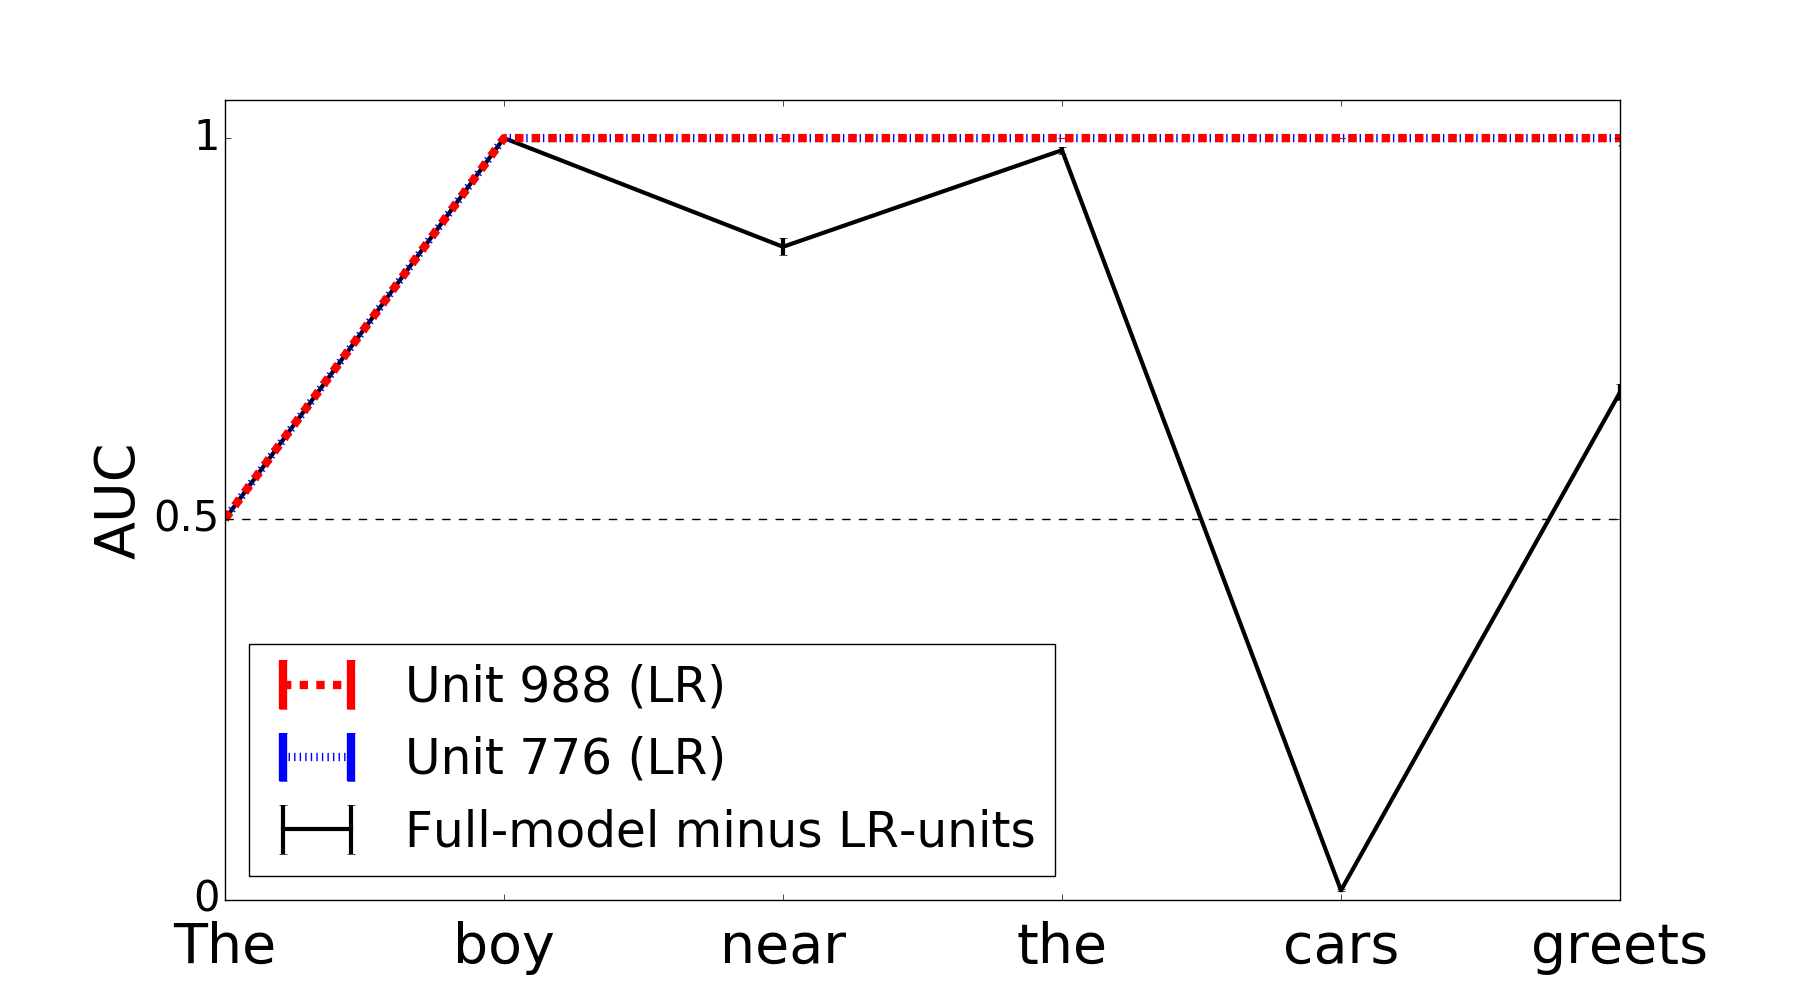
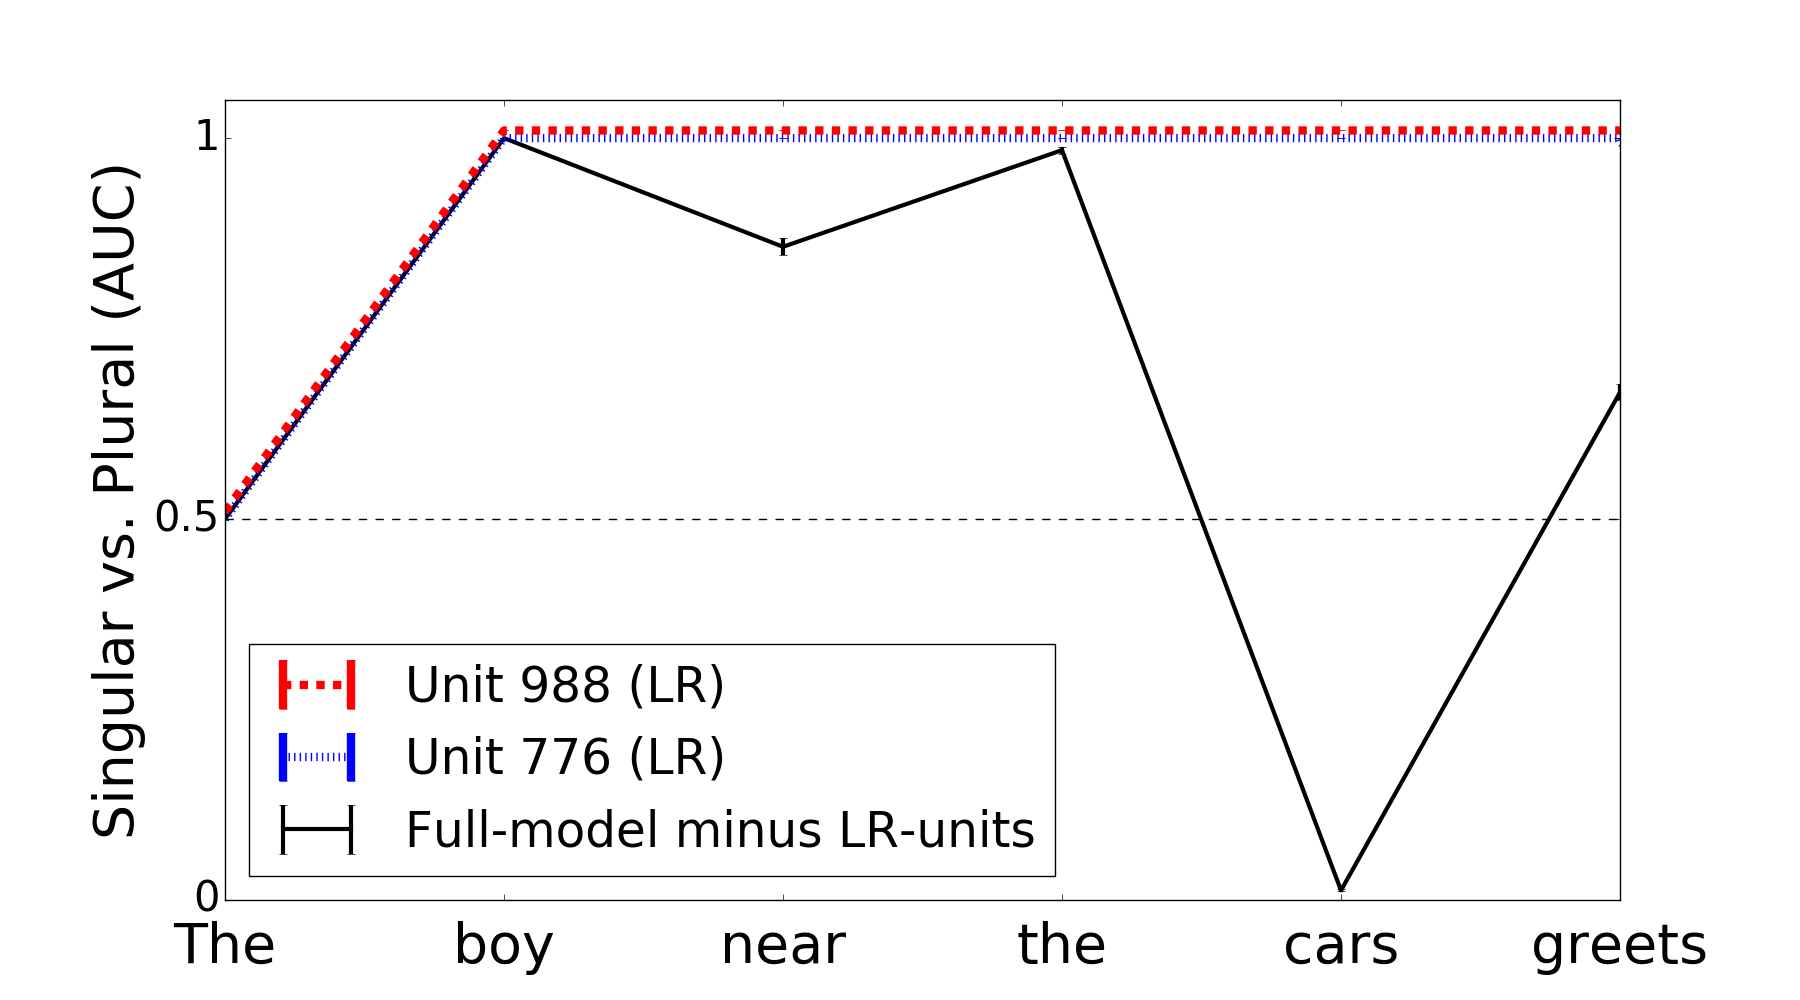
minor edits

diff --git a/writeup/NAACL2019/supplementary_material.tex b/writeup/NAACL2019/supplementary_material.tex
@@ -29,7 +29,7 @@ The results of the paper can be reproduced using the scripts in our github repos
 
 \section*{Tree Depth Data}
 
-For our regression experiments we used a large corpus with sentences with unambiguous but varied syntactic structures, generated by a script that follows a predefined context free grammar.
+For our regression experiments we used a large corpus with sentences with unambiguous but varied syntactic structures, generated by a script that follows a predefined context-free grammar.
 The output of this script is a four column file containing:\begin{enumerate}
     \item The generated sentence.
     \item The syntactic parse tree of the sentence, according to the grammar that was used to generate it.
@@ -43,9 +43,9 @@ We first processed a large corpus of such sentence with lengths between 2 and 25
 Aside from the sentence and the corresponding activations, this dictionary contains also the position, log probability, syntactic depth, frequency count and open nodes count for each word in this sentence, and the length and structure of the sentence.
 
 Since syntactic depth is naturally correlated with word position, we filtered the processed words such that all position-depth combinations within positions 7-12 and depths 3-8 are uniformly represented in our final dataset.
-Note that the datapoints for our regression analysis are thus (word activation, depth) pairs. As a results from our sampling strategy, only one or a few pairs for each sentence in the original dataset are included.
-Our final dataset contains 18.605 positions from 23.450 sentences.
+Note that the datapoints for our regression analysis are thus (word activation, tree depth) pairs. As a results from our sampling strategy, only one or a few pairs for each sentence in the original dataset are included.
+Our final dataset contains 4,033 positions from 1,303 sentences.
 
-We provide the script that generates these sentences as well as the files containing the exact sentences and filtered data we used for our study.
+We provide the script that generates these sentences, as well as the files containing the sentences and filtered data based on the above decorrelation method used in our study.
 
 \end{document}

diff --git a/Code/LSTM/model-analysis/SR_vs_LR_units.py b/Code/LSTM/model-analysis/SR_vs_LR_units.py
@@ -110,7 +110,9 @@ for u, unit in enumerate([775, 987]):
         scores = get_gat_scores(data, omit_units, seed)
         scores_LR_unit.append(scores[1, :]) # Scores only when trained on subject (first noun)
     scores_LR_unit = np.vstack(scores_LR_unit)
-    ax1.errorbar(x=range(scores_LR_unit.shape[1]), y=np.mean(scores_LR_unit, axis=0), yerr=np.std(scores_LR_unit, axis=0), linewidth=6, label=title, color=colors[u], ls=line_styles[u])
+    jitter = 0
+    if u == 1: jitter = 0.01
+    ax1.errorbar(x=range(scores_LR_unit.shape[1]), y=np.mean(scores_LR_unit, axis=0)+jitter, yerr=np.std(scores_LR_unit, axis=0), linewidth=6, label=title, color=colors[u], ls=line_styles[u])
     scores_LR_units.append(scores_LR_unit)
 
 #### Plot 2nd layer
@@ -155,7 +157,7 @@ ax1.set_xlim((0, len(sentence)-1))
 ax1.axhline(0.5, color='k', ls = '--')
 ax1.set_xticklabels(sentence, fontsize=40)
 ax1.tick_params(axis='x', which='major', pad=15)
-ax1.set_ylabel('AUC', fontsize = 40)
+ax1.set_ylabel('Singular vs. Plural (AUC)', fontsize = 40)
 ax1.set_yticks([0, 0.5, 1])
 ax1.set_yticklabels([0, 0.5, 1], fontsize=30)
 ax1.set_ylim((0, 1.05))

diff --git a/writeup/NAACL2019/Sections/Intro.tex b/writeup/NAACL2019/Sections/Intro.tex
@@ -15,10 +15,10 @@ inferred by its performance on linguistic tasks. In this study, we took a
 complementary ``neuroscientific'' approach: We thoroughly investigated
 the inner dynamics of an LSTM performing the number agreement task,
 striving to achieve a mechanistic understanding of how it accomplishes
-it. We found that the LSTM had specialized two ``grandma'' cells
+it. We found that the LSTM had specialized two ``grandmother'' cells
 \cite{Bowers:2009} to carry number features from the subject to the
 verb across the intervening material.\footnote{In the neuroscientific
-  literature, ``grandma'' cells are (sets of) neurons coding for
+  literature, ``grandmother'' cells are (sets of) neurons coding for
   specific information, e.g., about your grandmother, in a
   non-distributed manner.} Interestingly, the LSTM also
 possesses a more distributed mechanism to predict number when subject

diff --git a/Code/LSTM/model-analysis/main_regress_open_nodes_with_covariates.py b/Code/LSTM/model-analysis/main_regress_open_nodes_with_covariates.py
@@ -48,8 +48,8 @@ base_filename = os.path.join(base_folder, 'Output/num_open_nodes/' + model_type 
 
 
 # Set random seeds:
-np.random.seed(0)
-random.seed(0)
+np.random.seed(1)
+random.seed(1)
 
 ### check if datafile exists, if not, create it, otherwise load it:
 if os.path.exists(data_file) and not regenerate_data:
@@ -102,6 +102,8 @@ if calc_VIF:
     plt.close()
 
 
+# X, y, _, _ = data_manip.prepare_data_for_regression(data_sentences.data, data_sentences.data, feature_type=feature_type)
+# print('number of positions for regression: ', y.shape[0])
 ### Train/test regression model:
 print('Splitting train/test data')
 models = []; weights = []; scores = []; scores_reduced_model = []; units_outliers = []

diff --git a/Code/LSTM/model-analysis/functions/load_settings_params.py b/Code/LSTM/model-analysis/functions/load_settings_params.py
@@ -5,7 +5,7 @@ class settings:
     def __init__(self):
 
         # Regression
-        self.method = 'Lasso' # Ridge/Lasso
+        self.method = 'Ridge' # Ridge/Lasso
         self.y_label = 'all'  # Which label to regress from the meta text data
         self.h_or_c = 0  # zero or one. 0: hidden 1: cell
         self.which_layer = 0  # 0: both, 1: first, 2: second
